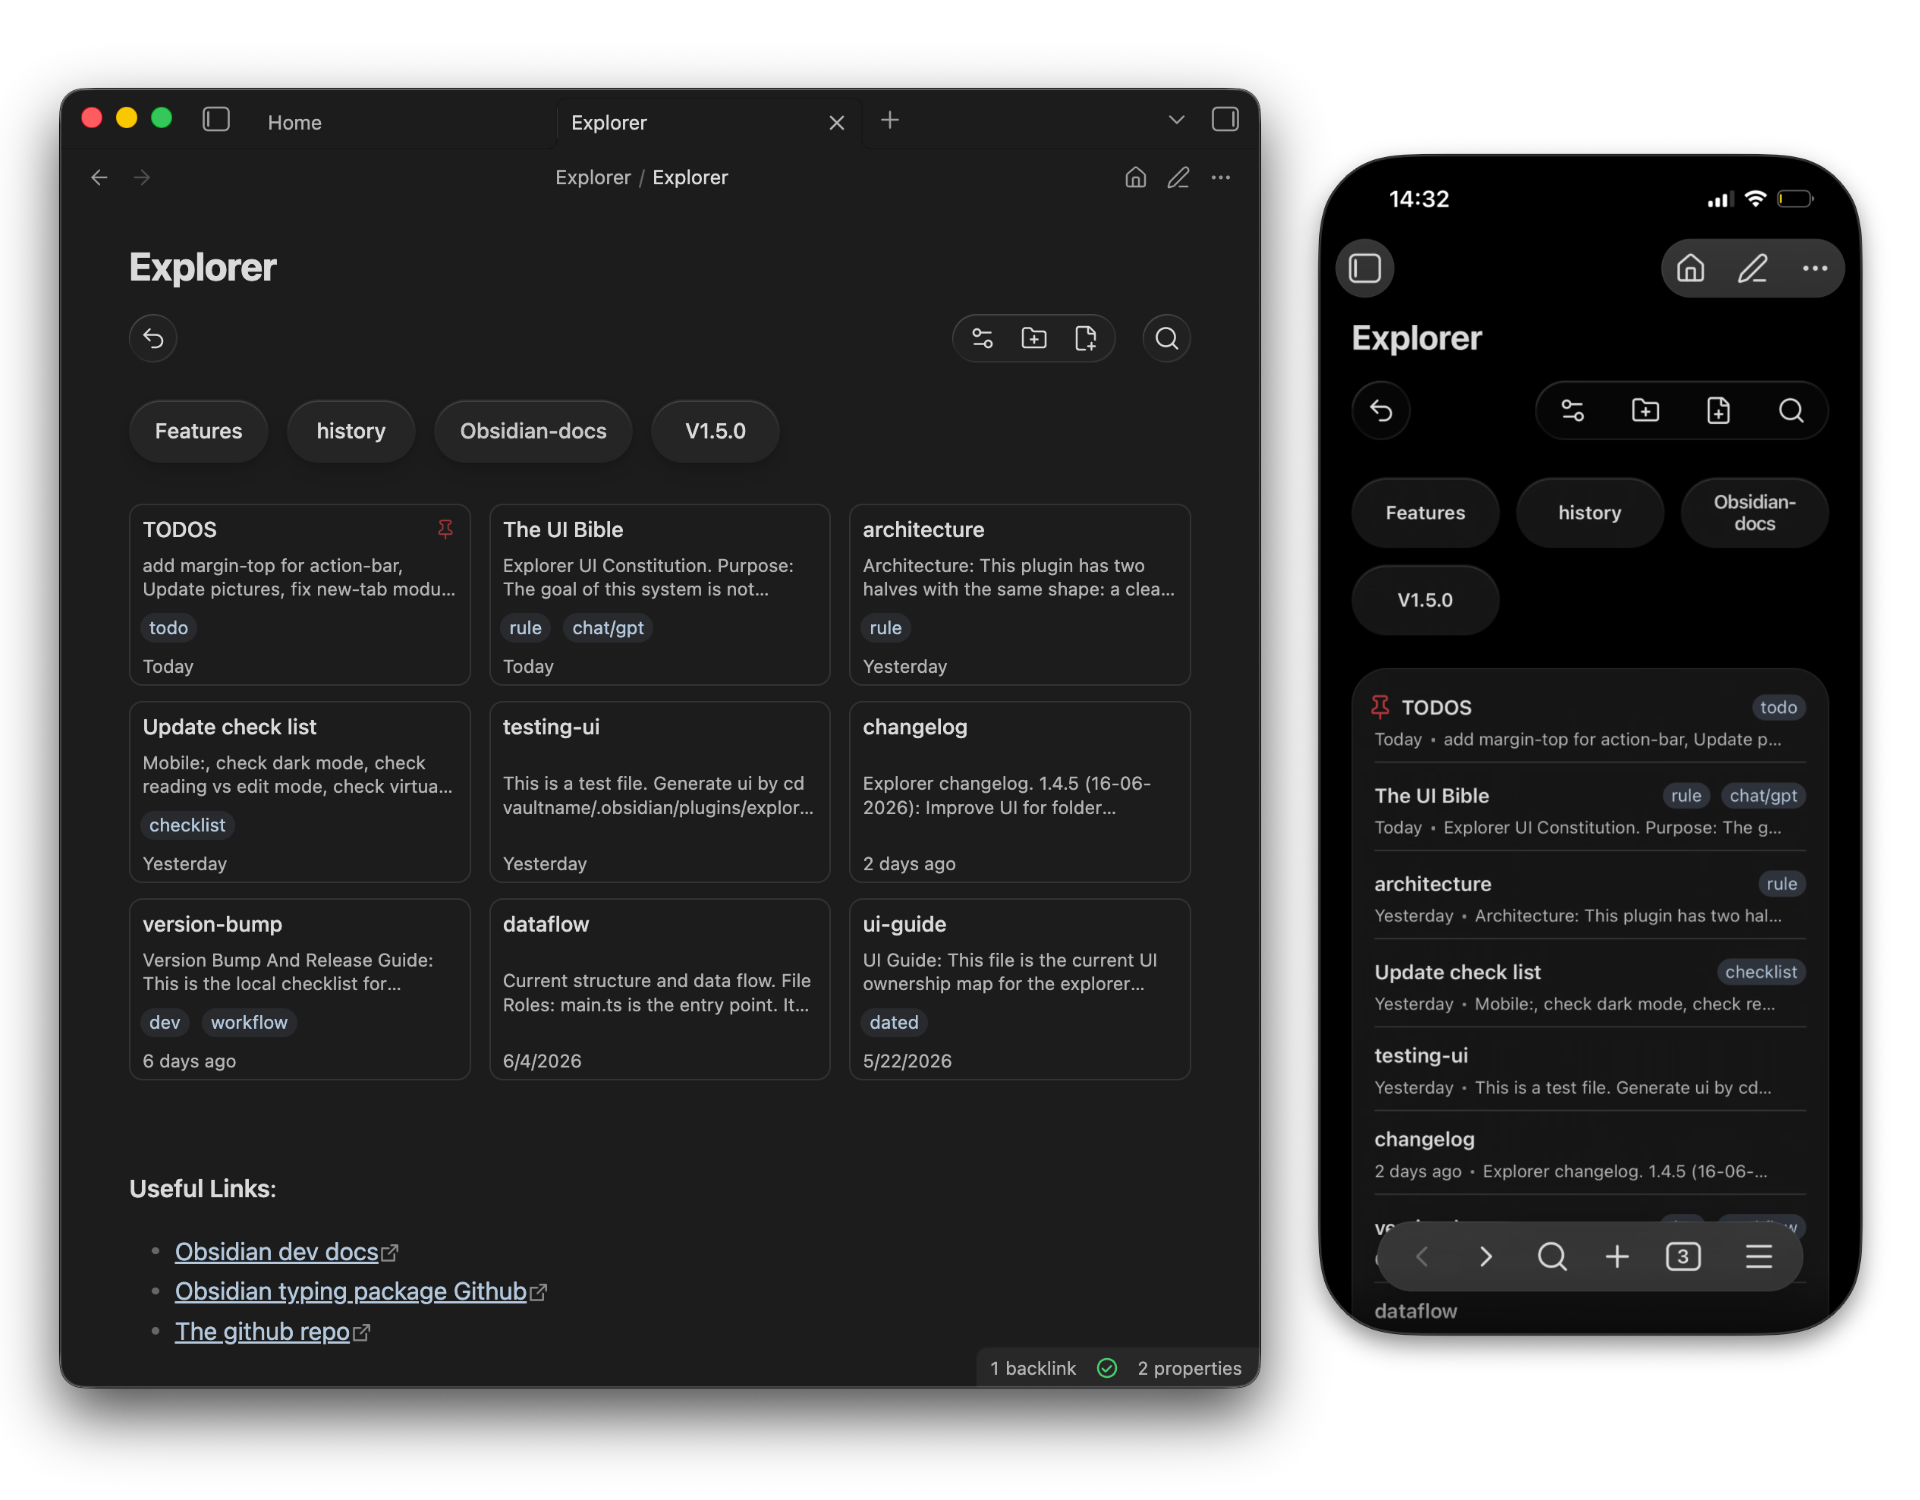
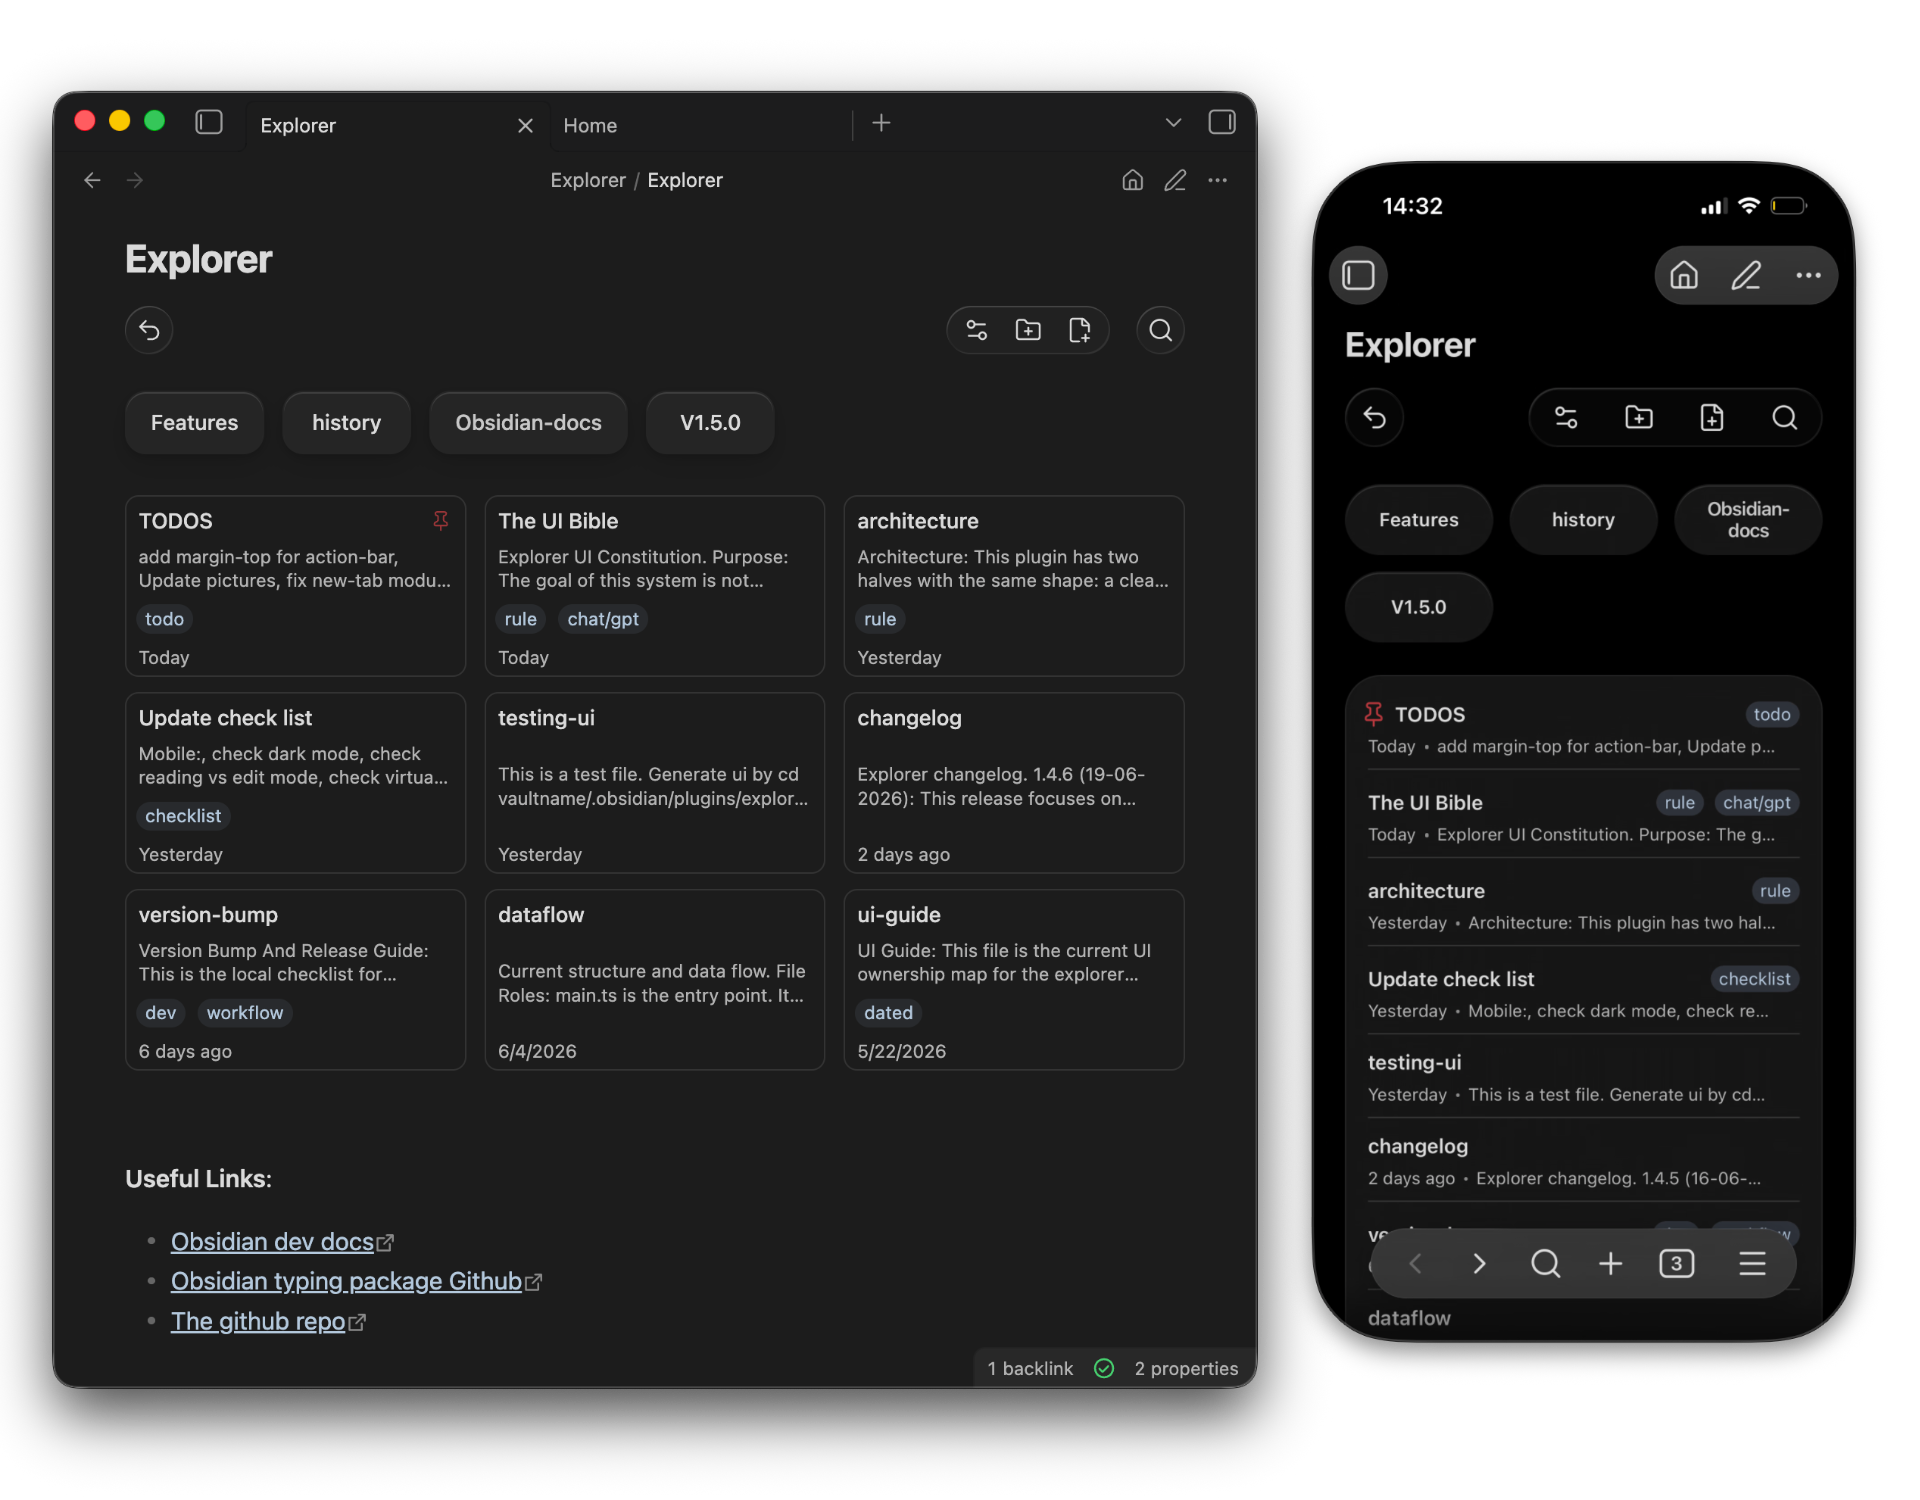
fmt

diff --git a/changelog.md b/changelog.md
@@ -1,21 +1,27 @@
 # Explorer changelog
+
 ## 1.4.6 (19-06-2026)
-This release focuses on polishing UI appearance and transitions, better date formats,  and performance
+
+This release focuses on polishing UI appearance and transitions, better date formats, and performance
 
 **Dates format**:
+
 - You can now choose between:
-	- **Local date format**:  (e.g. `27/7/2026` or `7/27/2026` for Americans)  
-	- **Relative time format**: (e.g. `4 days ago`) 		
-	- **Auto** (default): Relative for last week, local for the rest.
+  - **Local date format**: (e.g. `27/7/2026` or `7/27/2026` for Americans)
+  - **Relative time format**: (e.g. `4 days ago`)
+  - **Auto** (default): Relative for last week, local for the rest.
 
-**Change in folder buttons appearance** 
- - Folder buttons now appear smaller, more rounded, and less distracting 
+**Change in folder buttons appearance**
 
-**Images are now listed as `supported files`** 
+- Folder buttons now appear smaller, more rounded, and less distracting
 
-**Breaking changes**: 
-- The feature where the Action bar was rendered under inline title was temporarily deprecated due to obsidian's API constraints. 
-- 
+**Images are now listed as `supported files`**
+
+**Breaking changes**:
+
+- The feature where the Action bar was rendered under inline title was temporarily deprecated due to obsidian's API constraints.
+- The settings option to `open folder notes in reading mode` is now on by default
+
 ## 1.4.5 (16-06-2026)
 
 Improve UI for folder buttons
@@ -46,7 +52,7 @@ This release focuses on polishing Explorer's controls and visual surfaces.
   dark-mode visibility.
 - Note cards, modern lists, panels, and toolbar controls now share a more  
   consistent surface style, spacing, shadow, and corner treatment.
-- Modern list tags are shown in the main row, beside the note title area, so  
+- Modern list tags are shown in the main row, beside the note title area, so
   rows stay more compact and easier to scan.
 - Markdown list view is cleaner and no longer shows extension badges in that
   compact list style.